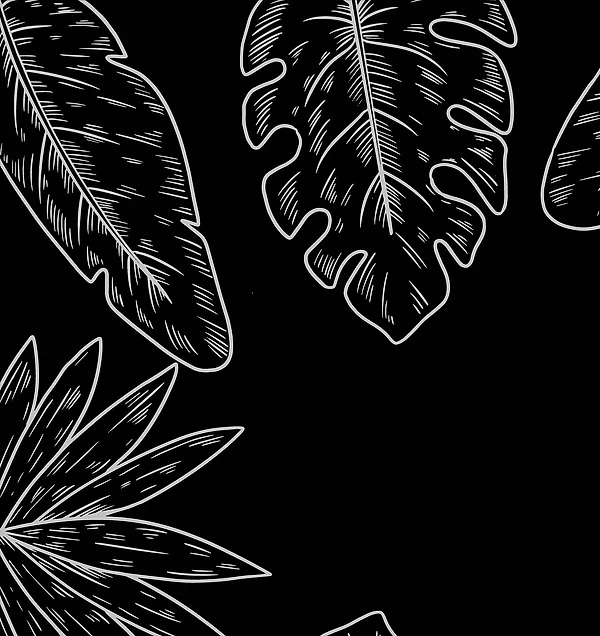
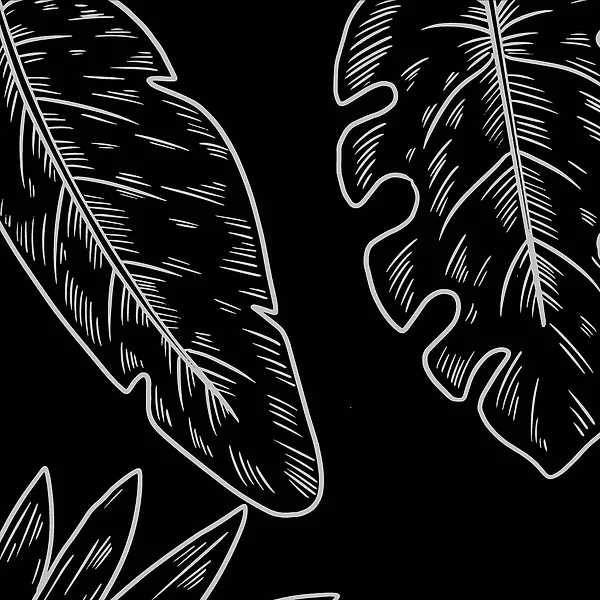
Le decorazioni stanno solo negli angoli, mai a meta bordo

diff --git a/src/pages/Home.tsx b/src/pages/Home.tsx
@@ -70,8 +70,8 @@ export default function Home() {
             la toglie dall'aria di foglio bianco. Testo grande e chiaro su
             verde scuro: ben sopra il contrasto richiesto. */}
         <section className="relative overflow-hidden bg-verde px-5 py-14 text-carta-chiara sm:py-20">
-          <Decoro disegno="angolo" angolo="alto-sinistra" chiaro larghezza="w-[15rem] md:w-[24rem]" />
-          <Decoro disegno="angolo" angolo="basso-destra" chiaro larghezza="w-[15rem] md:w-[24rem]" />
+          <Decoro disegno="angolo" angolo="alto-sinistra" chiaro larghezza="w-[14rem] md:w-[24rem]" />
+          <Decoro disegno="angolo" angolo="basso-destra" chiaro specchia larghezza="w-[14rem] md:w-[24rem]" />
           <div className="relative mx-auto max-w-3xl text-center">
             <p className="font-titolo text-[0.7rem] uppercase tracking-[0.28em] text-marrone-chiaro">
               Dal {ANNO_FONDAZIONE} a Solarino
@@ -113,8 +113,8 @@ export default function Home() {
         {/* SERVIZI — fascia pietra con schede chiare, due colonne da tablet
             in su, così su schermo grande lo spazio è occupato davvero. */}
         <section className="relative overflow-hidden bg-pieno px-5 py-12 sm:py-20">
-          <Decoro disegno="angolo" angolo="alto-sinistra" larghezza="w-[14rem] md:w-[22rem]" />
-          <Decoro disegno="foglia" angolo="destra" larghezza="w-[26rem]" soloDaTablet />
+          <Decoro disegno="angolo" angolo="alto-sinistra" larghezza="w-[13rem] md:w-[21rem]" />
+          <Decoro disegno="foglia" angolo="basso-destra" larghezza="w-[15rem] md:w-[22rem]" soloDaTablet />
           <div className="relative mx-auto max-w-4xl">
             <Titolo>I nostri servizi</Titolo>
             <p className="mt-2 text-lg text-grigio">Prezzi chiari, nessuna sorpresa alla cassa.</p>
@@ -150,8 +150,8 @@ export default function Home() {
 
         {/* LA BOTTEGA — fascia chiara, il 1982 grande come un marchio. */}
         <section className="relative overflow-hidden bg-carta-chiara px-5 py-12 sm:py-16">
-          <Decoro disegno="foglia-2" angolo="sinistra" larghezza="w-[26rem]" soloDaTablet />
-          <Decoro disegno="monstera" angolo="basso-destra" larghezza="w-[16rem] md:w-[24rem]" />
+          <Decoro disegno="foglia-2" angolo="basso-sinistra" larghezza="w-[15rem] md:w-[22rem]" soloDaTablet />
+          <Decoro disegno="monstera" angolo="alto-destra" larghezza="w-[14rem] md:w-[22rem]" />
           <div className="relative mx-auto grid max-w-4xl gap-4 sm:grid-cols-[auto_1fr] sm:gap-10">
             <p className="font-titolo text-6xl font-bold leading-none text-cuoio-scuro sm:text-8xl">
               {ANNO_FONDAZIONE}
@@ -173,7 +173,7 @@ export default function Home() {
 
         {/* GALLERIA — di nuovo la pietra, per staccare dalla fascia chiara. */}
         <section className="relative overflow-hidden bg-pieno px-5 py-12 sm:py-20">
-          <Decoro disegno="monstera" angolo="destra" larghezza="w-[22rem] md:w-[36rem]" />
+          <Decoro disegno="monstera" angolo="basso-destra" larghezza="w-[18rem] md:w-[30rem]" />
           <div className="relative mx-auto max-w-4xl">
             <Titolo>I nostri tagli</Titolo>
             <p className="mb-7 mt-2 text-lg text-grigio">Qualche lavoro fatto in bottega.</p>
@@ -183,7 +183,7 @@ export default function Home() {
 
         {/* DOVE SIAMO — verde chiaro, l'ultima fascia prima del piede. */}
         <section className="relative overflow-hidden bg-verde-chiaro px-5 py-12 sm:py-16">
-          <Decoro disegno="angolo" angolo="basso-sinistra" larghezza="w-[16rem] md:w-[26rem]" />
+          <Decoro disegno="angolo" angolo="basso-sinistra" specchia larghezza="w-[14rem] md:w-[24rem]" />
           <div className="relative mx-auto flex max-w-4xl flex-col gap-6 sm:flex-row sm:items-center sm:justify-between">
             <div>
               <Titolo>Dove siamo</Titolo>

diff --git a/src/components/Decoro.tsx b/src/components/Decoro.tsx
@@ -2,11 +2,12 @@
 // solo: stessa fusione, stessa opacità, stesso comportamento sul telefono.
 //
 // Regole che valgono per tutte:
+//  - stanno SOLO NEGLI ANGOLI e sconfinano oltre il bordo. Non esistono
+//    posizioni a metà lato: una foglia che spunta dal centro del bordo
+//    sembra un ritaglio appoggiato lì per sbaglio, non fogliame che
+//    continua fuori dalla pagina;
 //  - sono decorazione pura: nessuna informazione, invisibili agli schermi
 //    vocali, mai cliccabili;
-//  - stanno ANCORATE A UN ANGOLO e sconfinano fuori dal bordo, così sembrano
-//    fogliame che continua oltre la pagina invece di un ritaglio appoggiato
-//    in mezzo;
 //  - si caricano solo quando si arriva a quel punto della pagina, nella
 //    misura giusta per lo schermo;
 //  - il contenuto della fascia sta in un contenitore "relative", quindi il
@@ -15,36 +16,29 @@
 // Illustrazioni Freepik — attribuzione nel piede del sito.
 
 type Disegno = 'foglia' | 'foglia-2' | 'monstera' | 'angolo';
-type Angolo =
-  | 'alto-sinistra'
-  | 'alto-destra'
-  | 'basso-sinistra'
-  | 'basso-destra'
-  | 'sinistra'
-  | 'destra';
+type Angolo = 'alto-sinistra' | 'alto-destra' | 'basso-sinistra' | 'basso-destra';
 
-// Larghezza massima disponibile per ogni disegno (serve al srcset).
+// Le due misure disponibili per ogni disegno (servono al srcset).
 const MISURE: Record<Disegno, [number, number]> = {
   foglia: [500, 900],
   'foglia-2': [500, 900],
   monstera: [700, 1300],
-  angolo: [600, 1100],
+  angolo: [600, 1000],
 };
 
 const POSIZIONE: Record<Angolo, string> = {
-  'alto-sinistra': '-top-16 -left-16 md:-top-20 md:-left-20',
-  'alto-destra': '-top-16 -right-16 md:-top-20 md:-right-20',
-  'basso-sinistra': '-bottom-16 -left-16 md:-bottom-20 md:-left-20',
-  'basso-destra': '-bottom-16 -right-16 md:-bottom-20 md:-right-20',
-  sinistra: 'top-1/2 -left-24 -translate-y-1/2 -rotate-[10deg]',
-  destra: 'top-1/2 -right-24 -translate-y-1/2 rotate-[10deg]',
+  'alto-sinistra': '-top-10 -left-10 md:-top-14 md:-left-14',
+  'alto-destra': '-top-10 -right-10 md:-top-14 md:-right-14',
+  'basso-sinistra': '-bottom-10 -left-10 md:-bottom-14 md:-left-14',
+  'basso-destra': '-bottom-10 -right-10 md:-bottom-14 md:-right-14',
 };
 
 export default function Decoro({
   disegno,
   angolo,
-  larghezza = 'w-[16rem] md:w-[26rem]',
+  larghezza = 'w-[13rem] md:w-[22rem]',
   chiaro = false,
+  specchia = false,
   soloDaTablet = false,
 }: {
   disegno: Disegno;
@@ -53,6 +47,8 @@ export default function Decoro({
   larghezza?: string;
   /** true sulle fasce scure: usa il disegno invertito, fuso in "screen" */
   chiaro?: boolean;
+  /** ribalta in orizzontale, per far "guardare" il disegno verso l'interno */
+  specchia?: boolean;
   /** true quando su telefono coprirebbe il testo */
   soloDaTablet?: boolean;
 }) {
@@ -66,14 +62,14 @@ export default function Decoro({
     <img
       src={`/sfondi/${nome}.webp`}
       srcSet={`/sfondi/${nome}-${piccola}.webp ${piccola}w, /sfondi/${nome}.webp ${grande}w`}
-      sizes="(max-width: 767px) 60vw, 26rem"
+      sizes="(max-width: 767px) 55vw, 22rem"
       alt=""
       aria-hidden="true"
       loading="lazy"
       decoding="async"
       className={`decoro pointer-events-none absolute select-none ${
         inchiostro ? 'decoro-inchiostro' : ''
-      } ${chiaro ? 'decoro-chiaro' : ''} ${
+      } ${chiaro ? 'decoro-chiaro' : ''} ${specchia ? '-scale-x-100' : ''} ${
         soloDaTablet ? 'hidden md:block' : ''
       } ${larghezza} ${POSIZIONE[angolo]}`}
     />
